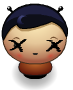
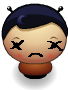
Lives and levels control

diff --git a/js/app.js b/js/app.js
@@ -1,4 +1,4 @@
-var searchCollision = true;
+var moveEnemies = true;
 
 function collided(){
 	for(enem of allEnemies){
@@ -7,42 +7,14 @@ function collided(){
 			// The objects are touching
 				console.log(player.x + "/" + player.y + "/" +  player.width  + "/" + player.height + "/"+ 
 					enem.x + "/" + enem.y + "/" +  enem.width + "/" + enem.height );
-		
 			return true;
 		}		
 	}
 	return false;
 }
 
-//Avoid to enemies to be overlaped
-function calculateOverlap(enemy){
-	var overlap = false;
-	for(enem of allEnemies){
-		//if it is not the same enemy
-		if(enem.id != enemy.id){
-			//If they are in the same row and in negative position
-			if(enem.y == enemy.y){
-				//If they overlap
-				if(enemy.x <0){
-					if((enem.x >= enemy.x) && (enemy.x +101)> enem.x){
-					//	alert("1 . New is" +enem.x +"and the other " + enemy.x);
-						enemy.x  = enem.x - 101;
-						overlap = true;
-					}
-					if((enem.x <= enemy.x) && (enem.x +101)> enemy.x){
-					//	alert("2 . New is" +enem.x +"and the other " + enemy.x);
-						enemy.x  = enem.x - 101;
-						overlap = true;
-					}	
-				}				
-			}
-			
-		}
-	}
-	//if it was overlap, then call it again to check that moving it didn't put the enemy on top of another enemy
-	if(overlap){
-		calculateOverlap(enemy);
-	}
+function reachedWater(){
+	return (player.y == 45);
 }
 
 
@@ -58,8 +30,6 @@ var Enemy = function(id) {
 	this.width = 101;
 	this.height = 73;
 	
-	//Avoid to enemies to be overlaped
-	calculateOverlap(this);
     // The image/sprite for our enemies, this uses
     // a helper we've provided to easily load images
     this.sprite = 'images/enemy-bug2.png';
@@ -69,19 +39,18 @@ var Enemy = function(id) {
 // Parameter: dt, a time delta between ticks
 Enemy.prototype.update = function(dt) {
 	//If we are not searching collision, we should not update the enemies.
-	if(searchCollision){
+	if(moveEnemies){
 		// You should multiply any movement by the dt parameter
 		// which will ensure the game runs at the same speed for
 		// all computers.
-		this.x  += 60*dt;
+		this.x  += game.speed*dt;
 		//It is out of the screen
 		if(this.x > 504)
 		{
 			//Randomly Change the row
 			this.y = 135 + (83 *Math.floor(Math.random()*3));
-			
-			calculateOverlap(this);
-			this.x = -100;
+			//Randomly assing the distance to the left where it will begin to appear
+			this.x = Math.floor(Math.random()*5)*-100;
 		}
 	};
 	
@@ -101,11 +70,12 @@ var Player = function() {
 
     // The image/sprite for our enemies, this uses
     // a helper we've provided to easily load images
-    this.sprite = 'images/char-boy2.png';
+    this.sprite = game.character + '.png';
 	this.x = 215;
 	this.y = 460;
-	this.width = 73;
+	this.width = 68;
 	this.height = 90;
+	this.lives = 3;
 };
 
 // Update the enemy's position, required method for game
@@ -114,11 +84,46 @@ Player.prototype.update = function(dt) {
     // You should multiply any movement by the dt parameter
     // which will ensure the game runs at the same speed for
     // all computers.
-	if(searchCollision && collided()){
-		this.sprite = 'images/char-boy2-dead.png';
-		searchCollision = false;
+	if(moveEnemies && collided()){
+		this.sprite = game.character + '-dead.png';
+		moveEnemies = false;
+		setTimeout(function(){
+			player.loseLife()}, 2000);
+	}
+	if(moveEnemies && reachedWater()){
+		this.sprite = game.character + '-win.png';
+		moveEnemies = false;
+		//Wait two seconds and move to the next level
+		setTimeout(function(){
+			game.nextLevel()}, 2000);		
 	}
 	
+};
+
+// Moves the player back to the start
+Player.prototype.backToStart = function() {
+    this.sprite = game.character + '.png';
+	this.x = 215;
+	this.y = 460;
+};
+
+// Player lose one life
+Player.prototype.loseLife = function() {
+    player.lives--;
+	if(player.lives > 0){
+		this.backToStart();
+		//Redraw the hearts
+		var hearts ="";	
+		for(var i = 0; i < player.lives; i++){
+			hearts += '<img src="images/heart.png">';
+		}
+		$("#hearts").html(hearts);
+		
+		moveEnemies = true;
+	}else{
+		$("#hearts").html("");
+		alert("YOU LOSE");
+	}
 };
 
 // Draw the enemy on the screen, required method for game
@@ -128,7 +133,7 @@ Player.prototype.render = function() {
 
 // Draw the enemy on the screen, required method for game
 Player.prototype.handleInput = function(direction) {
-	if(searchCollision){
+	if(moveEnemies){
 		if(direction == 'up'  && this.y > 0){
 			this.y -= 83;
 		}
@@ -145,14 +150,59 @@ Player.prototype.handleInput = function(direction) {
 	
 };
 
+// Object for the game
+var Game = function(id) {
+    // Variables applied to each of our instances go here,
+	this.character = 'images/char-boy2';
+	this.level = 1;
+	this.score = 0;
+	this.enemies = 5;
+	this.speed = 60;
+};
+
+
+// Move on to the next Level
+Game.prototype.nextLevel = function() {
+	game.increaseDifficulty();
+	player.backToStart();
+	//Alow movement again
+	moveEnemies = true;
+};
+
+
+// Move on to the next Level
+Game.prototype.increaseDifficulty = function() {
+	game.level++;
+	//Change level in the screen
+	$("#level").text("Level "+ game.level);
+	
+	//Add more speed or more enemies depending on the # of level
+	if(game.level % 2 == 0){
+		//Add speed
+		this.speed += 30;
+	}else{
+		//Add enemies
+		this.enemies++;
+		allEnemies.push(new Enemy(this.enemies-1));
+	}
+};
+
+function initiateEnemies(){
+	allEnemies = [];
+	for(var i = 0; i < game.enemies; i++){
+		allEnemies[i] = new Enemy(i+1);
+	}	
+}
+
+
 // Now instantiate your objects.
 // Place all enemy objects in an array called allEnemies
 // Place the player object in a variable called player
-var allEnemies = [];
-//add 5 enemies
-for(var i = 0; i < 5; i++){
-	allEnemies[i] = new Enemy(i+1);
-}
+var game = new Game();
+var allEnemies;
+//add enemies
+initiateEnemies();
+
 var player = new Player();
 
 

diff --git a/js/engine.js b/js/engine.js
@@ -106,39 +106,39 @@ var Engine = (function(global) {
         /* This array holds the relative URL to the image used
          * for that particular row of the game level.
          */
-        var rowImages = [
-                'images/water-block.png',   // Top row is water
-                'images/stone-block.png',   // Row 1 of 3 of stone
-                'images/stone-block.png',   // Row 2 of 3 of stone
-                'images/stone-block.png',   // Row 3 of 3 of stone
-                'images/grass-block.png',   // Row 1 of 2 of grass
-                'images/grass-block.png'    // Row 2 of 2 of grass
-            ],
-            numRows = 6,
-            numCols = 5,
-            row, col;
-        
-        // Before drawing, clear existing canvas
-        ctx.clearRect(0,0,canvas.width,canvas.height)
+		var rowImages = [
+				'images/water-block.png',   // Top row is water
+				'images/stone-block.png',   // Row 1 of 3 of stone
+				'images/stone-block.png',   // Row 2 of 3 of stone
+				'images/stone-block.png',   // Row 3 of 3 of stone
+				'images/grass-block.png',   // Row 1 of 2 of grass
+				'images/grass-block.png'    // Row 2 of 2 of grass
+			],
+			numRows = 6,
+			numCols = 5,
+			row, col;
+		
+		// Before drawing, clear existing canvas
+		ctx.clearRect(0,0,canvas.width,canvas.height)
 
-        /* Loop through the number of rows and columns we've defined above
-         * and, using the rowImages array, draw the correct image for that
-         * portion of the "grid"
-         */
-        for (row = 0; row < numRows; row++) {
-            for (col = 0; col < numCols; col++) {
-                /* The drawImage function of the canvas' context element
-                 * requires 3 parameters: the image to draw, the x coordinate
-                 * to start drawing and the y coordinate to start drawing.
-                 * We're using our Resources helpers to refer to our images
-                 * so that we get the benefits of caching these images, since
-                 * we're using them over and over.
-                 */
-                ctx.drawImage(Resources.get(rowImages[row]), col * 101, row * 83);
-            }
-        }
+		/* Loop through the number of rows and columns we've defined above
+		 * and, using the rowImages array, draw the correct image for that
+		 * portion of the "grid"
+		 */
+		for (row = 0; row < numRows; row++) {
+			for (col = 0; col < numCols; col++) {
+				/* The drawImage function of the canvas' context element
+				 * requires 3 parameters: the image to draw, the x coordinate
+				 * to start drawing and the y coordinate to start drawing.
+				 * We're using our Resources helpers to refer to our images
+				 * so that we get the benefits of caching these images, since
+				 * we're using them over and over.
+				 */
+				ctx.drawImage(Resources.get(rowImages[row]), col * 101, row * 83);
+			}
+		}
 
-        renderEntities();
+		renderEntities();
     }
 
     /* This function is called by the render function and is called on each game
@@ -176,7 +176,8 @@ var Engine = (function(global) {
 		'images/enemy-bug2.png',
         'images/char-boy.png',
 		'images/char-boy2.png',
-		'images/char-boy2-dead.png'
+		'images/char-boy2-dead.png',
+		'images/char-boy2-win.png'
     ]);
     Resources.onReady(init);
 
@@ -185,4 +186,6 @@ var Engine = (function(global) {
      * from within their app.js files.
      */
     global.ctx = ctx;
+	global.canvas = canvas;
+
 })(this);

diff --git a/index.html b/index.html
@@ -2,12 +2,23 @@
 <html>
 <head>
     <meta charset="UTF-8">
-    <title>Effective JavaScript: Frogger</title>
+    <title>Effective JavaScript: Mauro's Frogger</title>
     <link rel="stylesheet" href="css/style.css">
+	<script src="https://ajax.googleapis.com/ajax/libs/jquery/3.2.1/jquery.min.js"></script>
 </head>
 <body>
     <script src="js/resources.js"></script>
     <script src="js/app.js"></script>
     <script src="js/engine.js"></script>
+	<header>
+		<div id="container">
+			<h1 id="level">Level 1</h1>
+				<div id="hearts">
+					<img src="images/heart.png">
+					<img src="images/heart.png">
+					<img src="images/heart.png">
+				</div>
+		</div>
+	</header>
 </body>
 </html>
